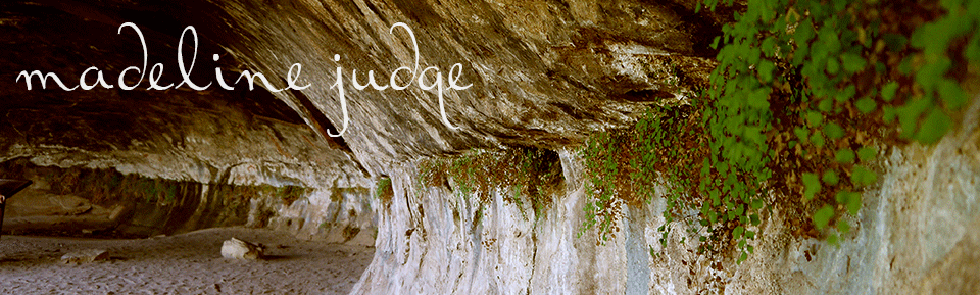
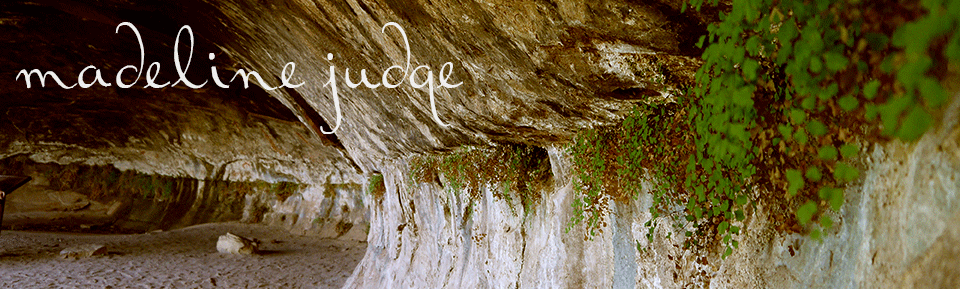
header placement

diff --git a/style.css b/style.css
@@ -13,6 +13,9 @@ font-family:News Gothic MT, Arial, sans-serif;
   font-family:Ralph Walker;
   font-size: 36px;
   position:relative;
+  height: 100%;
+  width: 100%;
+  text-align: center;
 }
 .navbar {
   position:relative;
